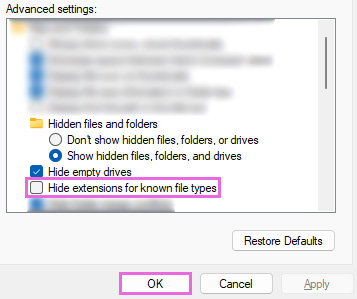
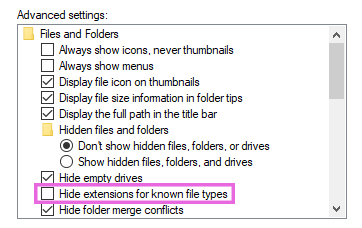
replacing old images and updating text to make things easier

diff --git a/docs/additional-guides/enabling-windows-file-extensions.md b/docs/additional-guides/enabling-windows-file-extensions.md
@@ -7,38 +7,34 @@ nav_order: 2
 
 # Enabling Windows File Extensions
 
-By default, Windows does not display file extensions, which can cause confusion when trying to identify specific files within a game folder.
+By default, Windows disables the function to allow users to see known file extensions. Unfortunately, this can cause issues for many users trying to pinpoint specific files.
 
 This guide will walk you through the process of making file extensions visible in Windows 10 and 11.
 
 ---
 
-## **Step 1:** Open `File Explorer Options`
+## **Step 1:** Open "File Explorer Options"
 
-Start by searching for `File Explorer Options` in the Windows Start Menu:
+Start by searching for "File Explorer Options" in the Windows Start Menu:
 
   ![Start Menu Search Image](../images/enabling-windows-file-extensions/file_explorer_options_start_menu.jpg)
 
-This options menu allows you to modify the settings of Windows `File Explorer`.
+This options menu allows you to modify the settings of Windows "File Explorer".
 
 ---
 
-## **Step 2:** Navigate to the `View` Tab
+## **Step 2:** Make File Extensions Visable
 
 Once the options menu opens, you will see three tabs at the top.
 
-1. Click on the `View` tab:
+Click on the "View" tab:
 
-  ![File Options View Tab Image](../images/enabling-windows-file-extensions/file_explorer_options_view_tab.jpg)
+![File Options View Tab Image](../images/enabling-windows-file-extensions/file_explorer_options_view_tab.jpg)
 
----
+Then, untick the checkbox next to "Hide extensions for known file types."
 
-## **Step 3:** Make File Extensions Visible
+![File Options Untick Option Image](../images/enabling-windows-file-extensions/file_explorer_options_remove_tick.jpg)
 
-Now, you need to change the settings to make file extensions visible:
+Lastly, click the "OK" button in the bottom right corner of the options menu to save your changes.
 
-1. Untick the checkbox next to `Hide extensions for known file types`.
-
-2. Click `OK` on the bottom right of the options menu to save your changes:
-
-  ![File Options Untick Option Image](../images/enabling-windows-file-extensions/file_explorer_options_remove_tick.jpg)
+  
